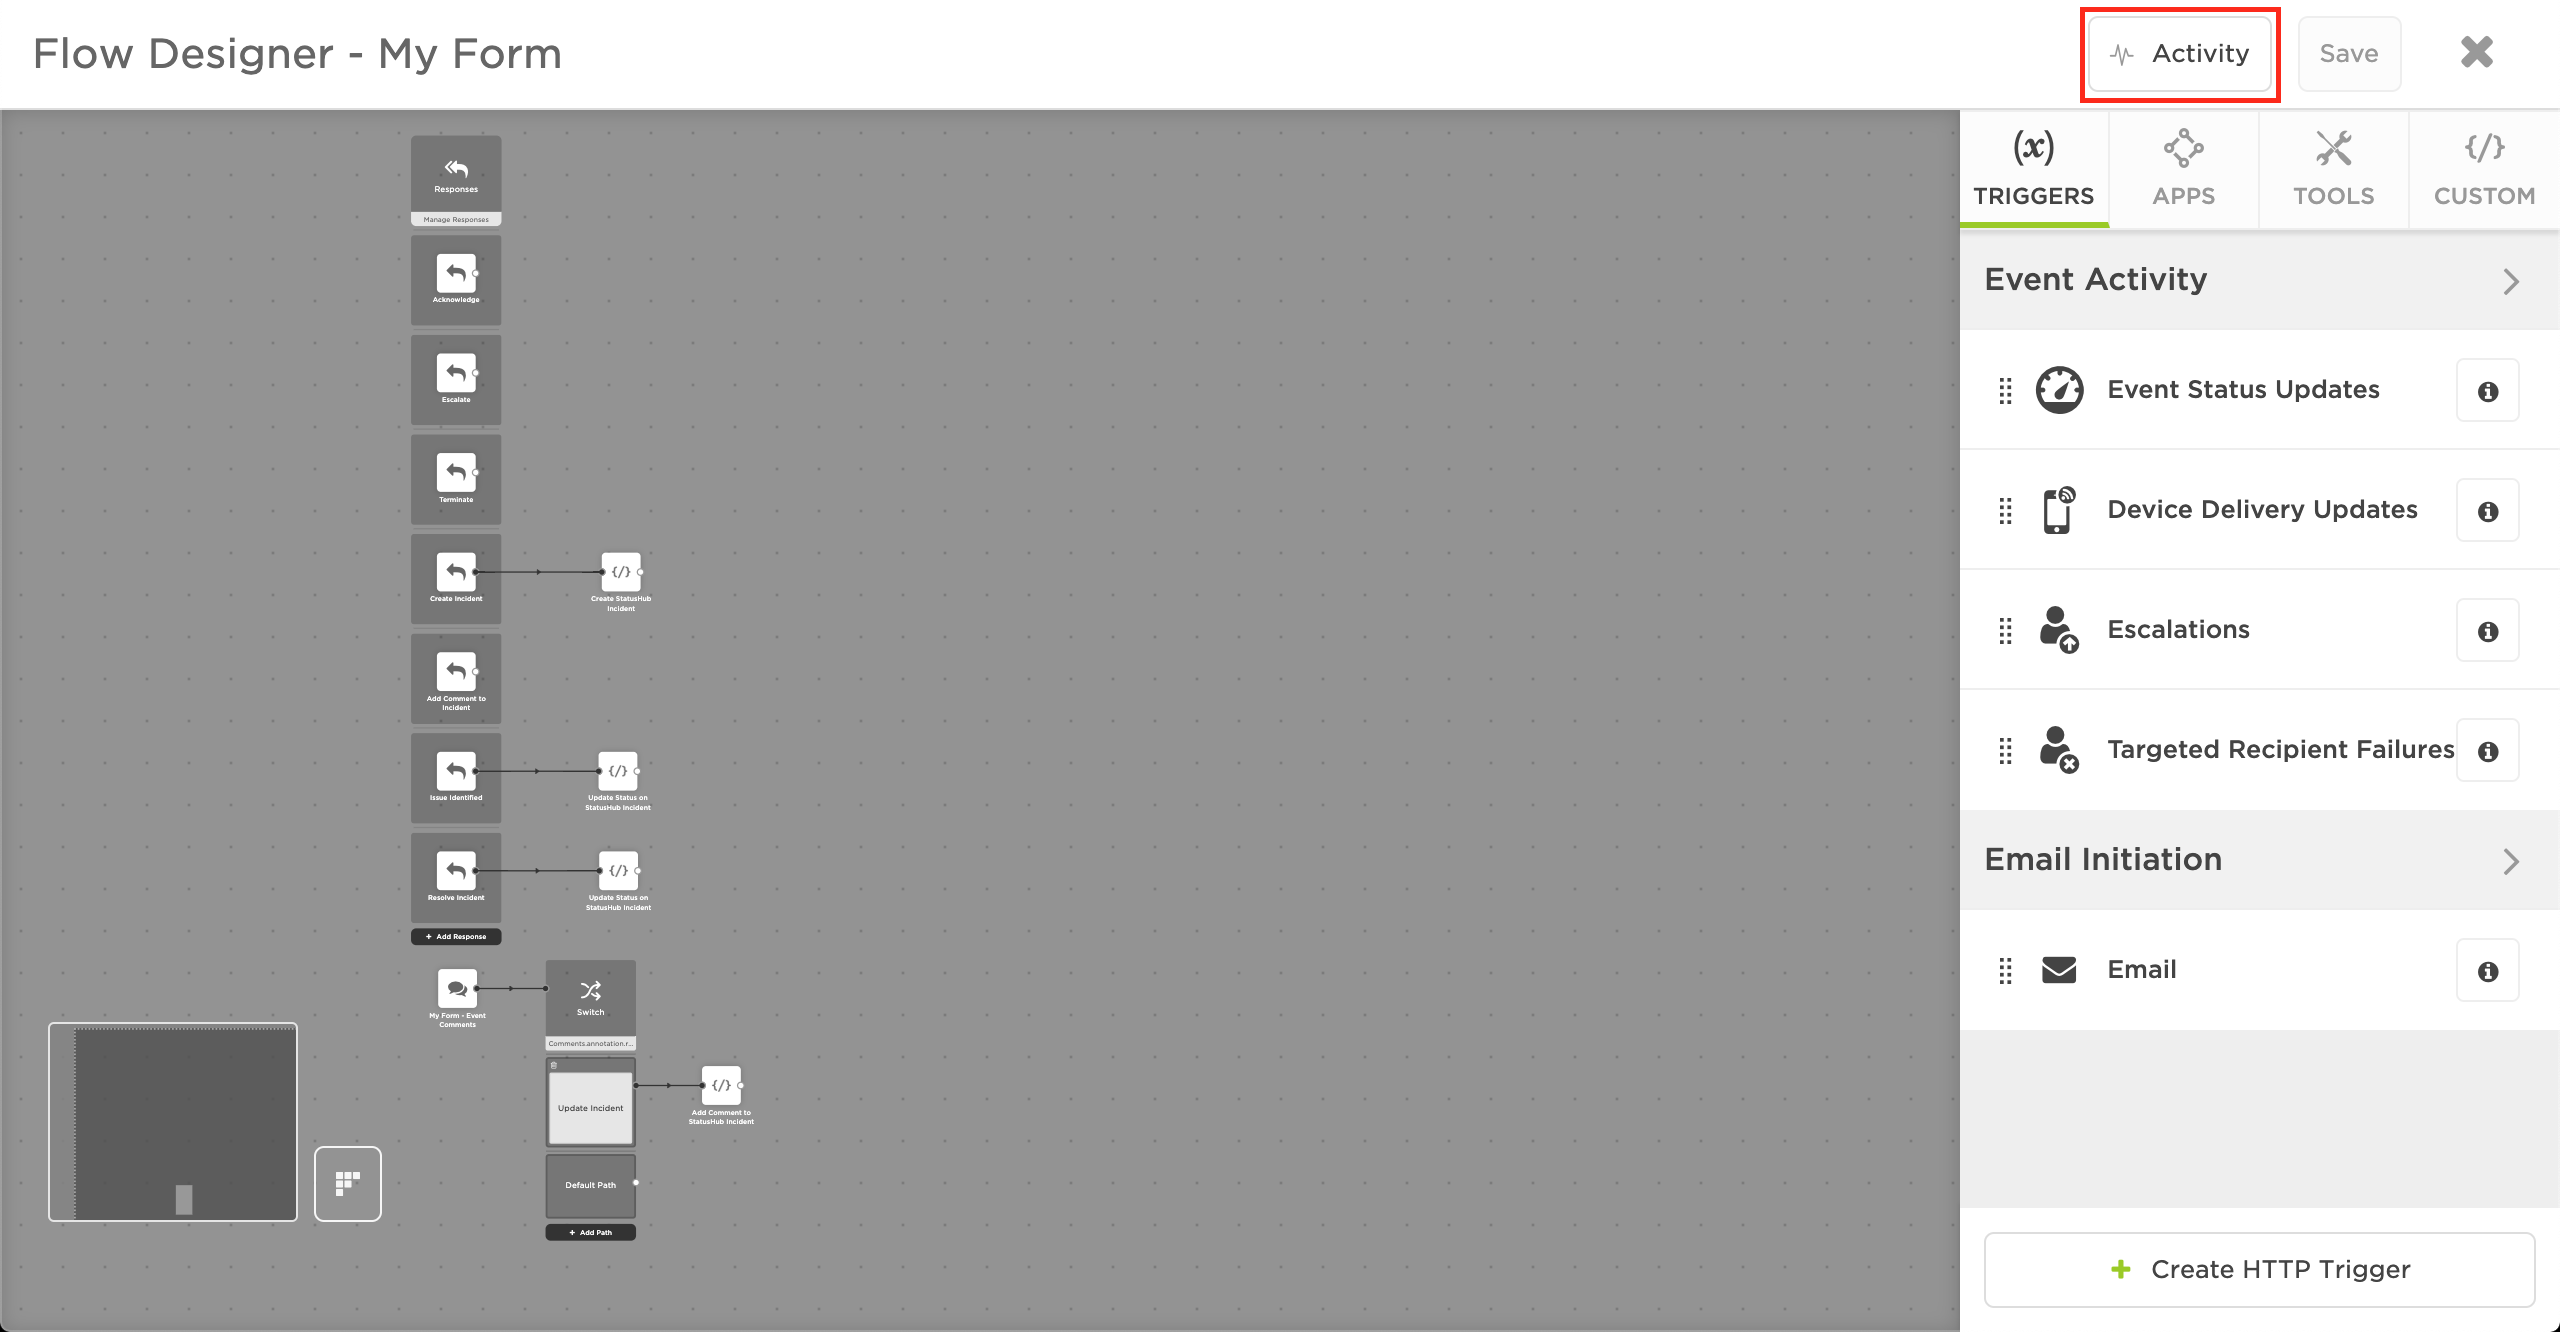
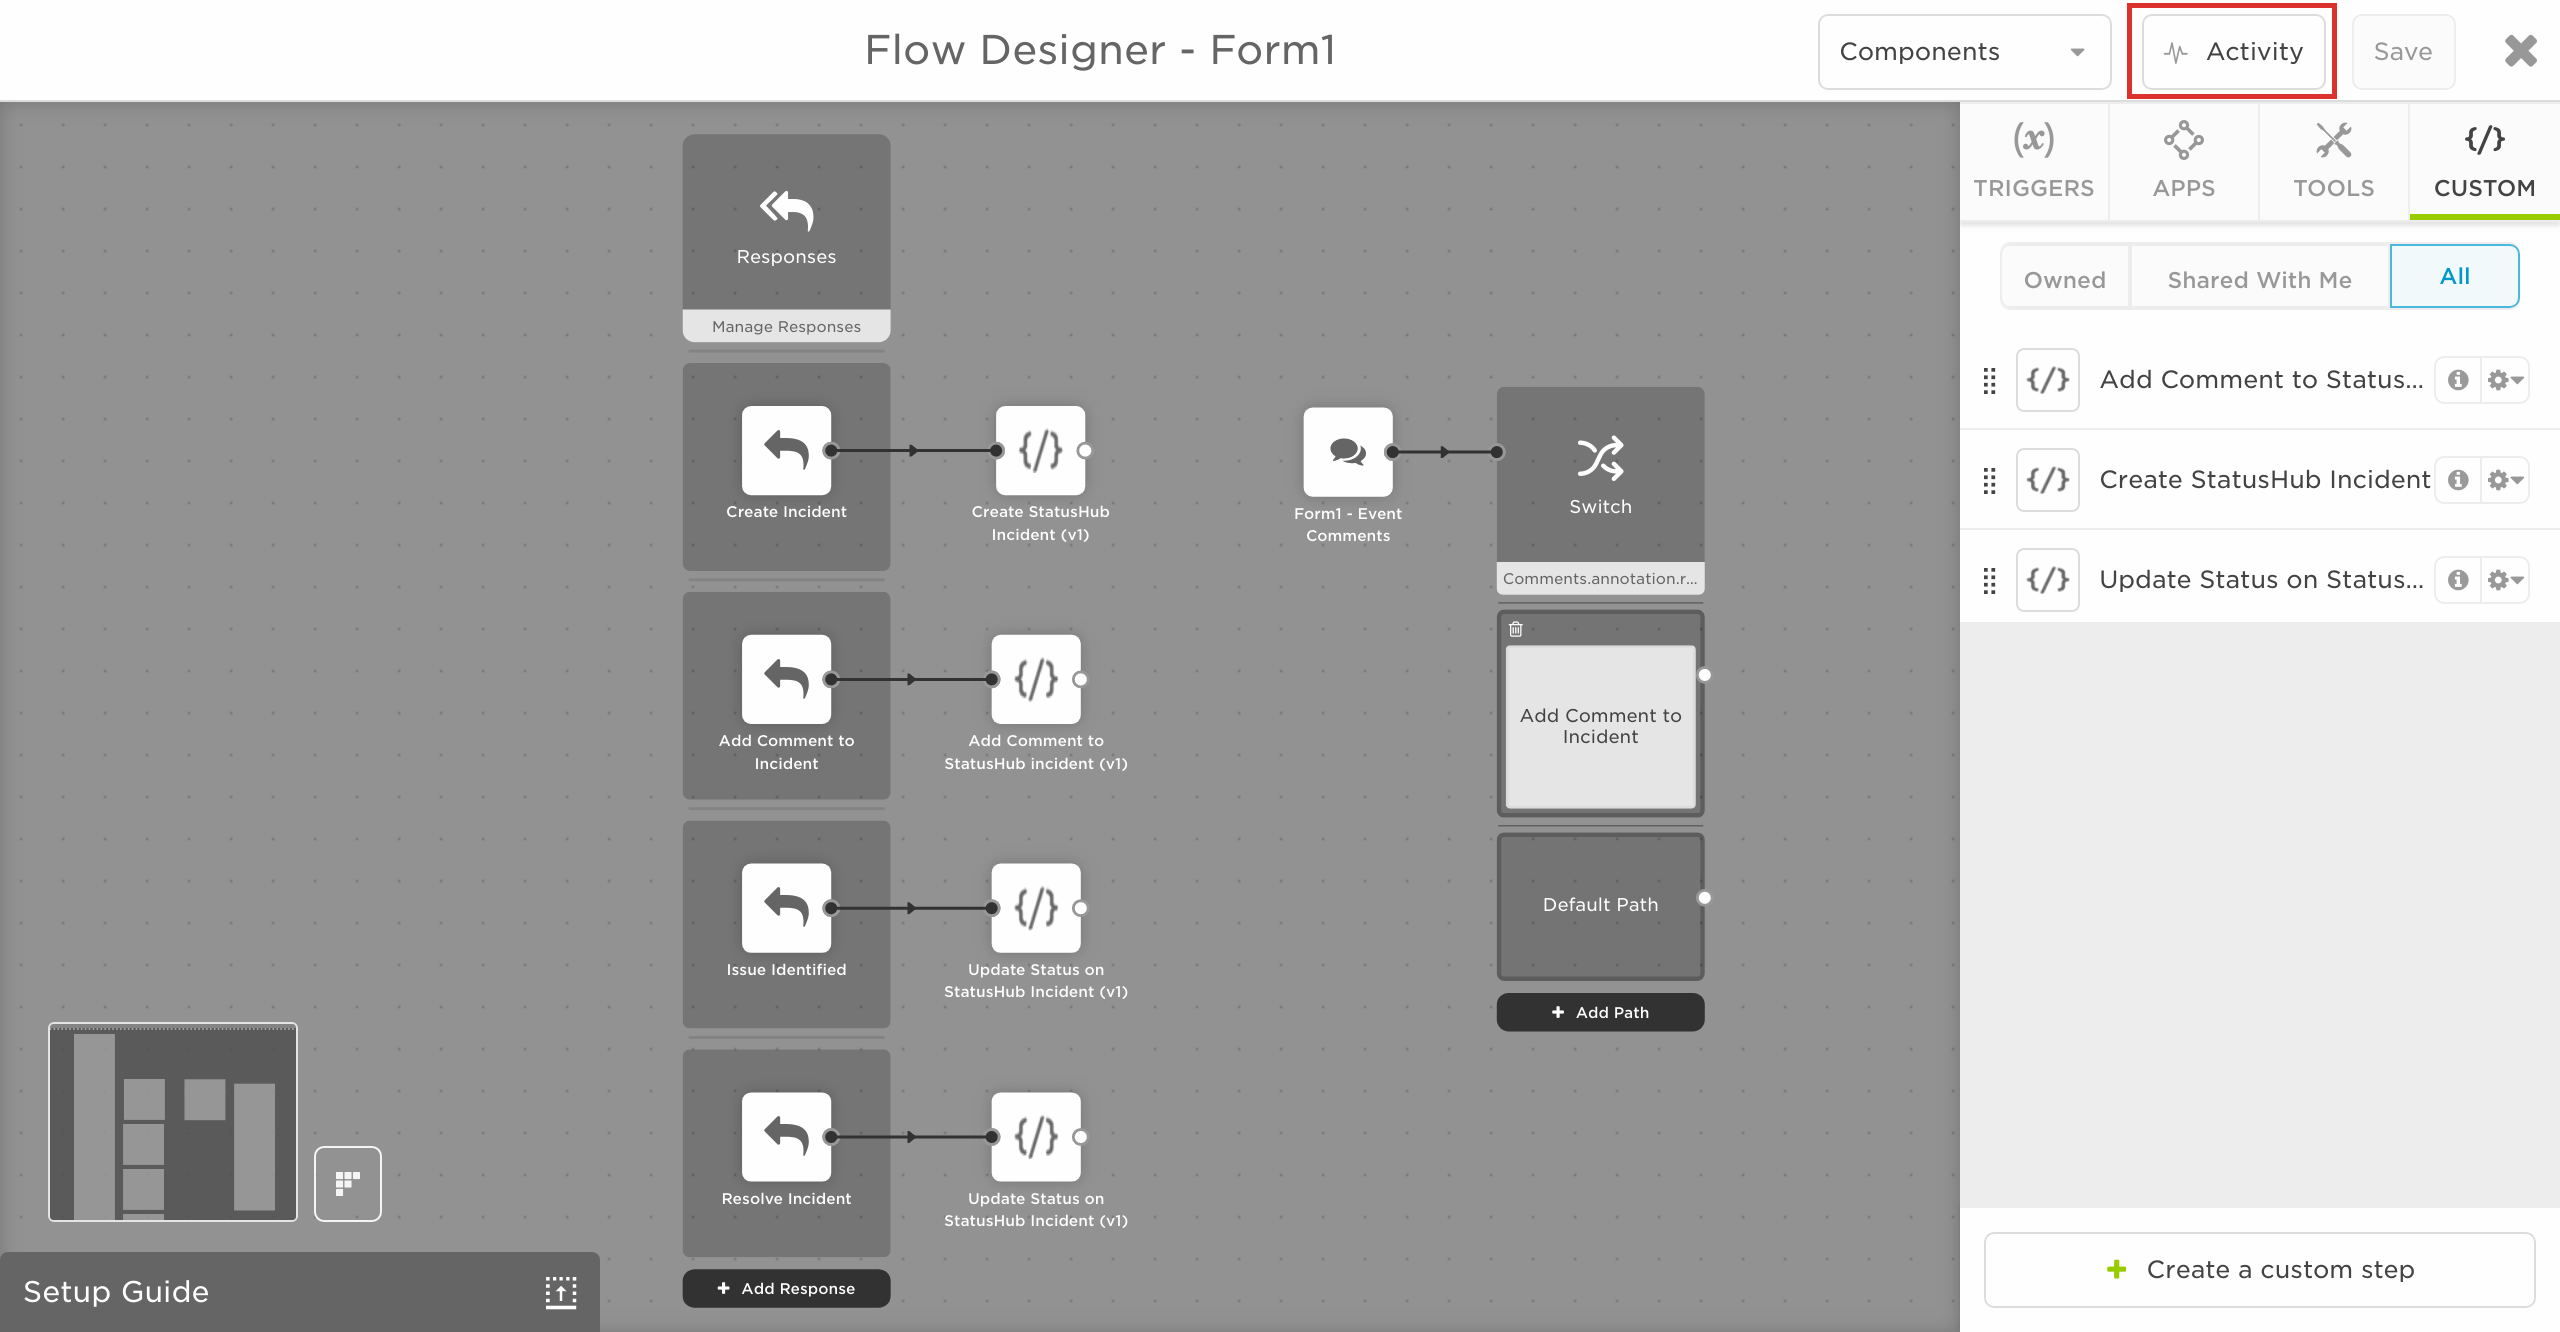
Fix documentation for Commenting on Incident
Fix description and screenshots describing how to configure
'Add Comment to Incident' response.
Previous documentiation guided that comment custom step should be
connected with Switch but that would result in situation where
commenting on incident would not work

diff --git a/README.md b/README.md
@@ -146,7 +146,7 @@ In this example, you could use `Website`, `API`, or `HR Server` as possible serv
 8. Double click on the `Switch` trigger inside the flow, and set the property to `Comments.annotation.response.response`, then click **Done**
 9. Click on `Add Path`, click on the created trigger, and set the value to match the comment response option.
 ![switch-step](./media/switch-step.png)
-10. Drag the comment custom step you just created into the flow, and connect it to the switch step you just created
+10. Drag the comment custom step you just created into the flow, and connect it to the `Add Comment to Incident` response option
 11. Double click the custom step you just dragged into the flow to edit it, then fill in the inputs with their respective values
 12. In the `Endpoint` tab, select `StatusHub` as the endpoint, then click **Save Changes** and exit
 
